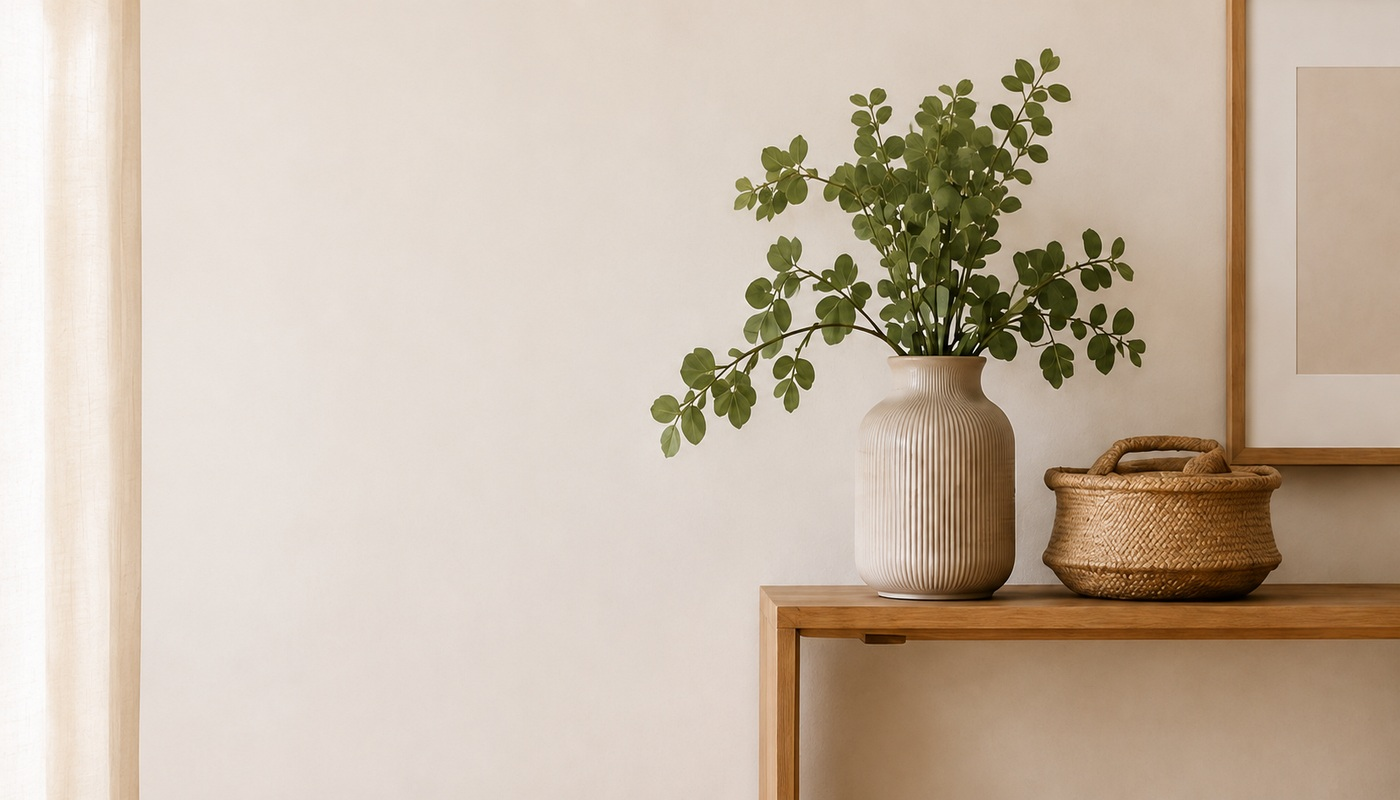
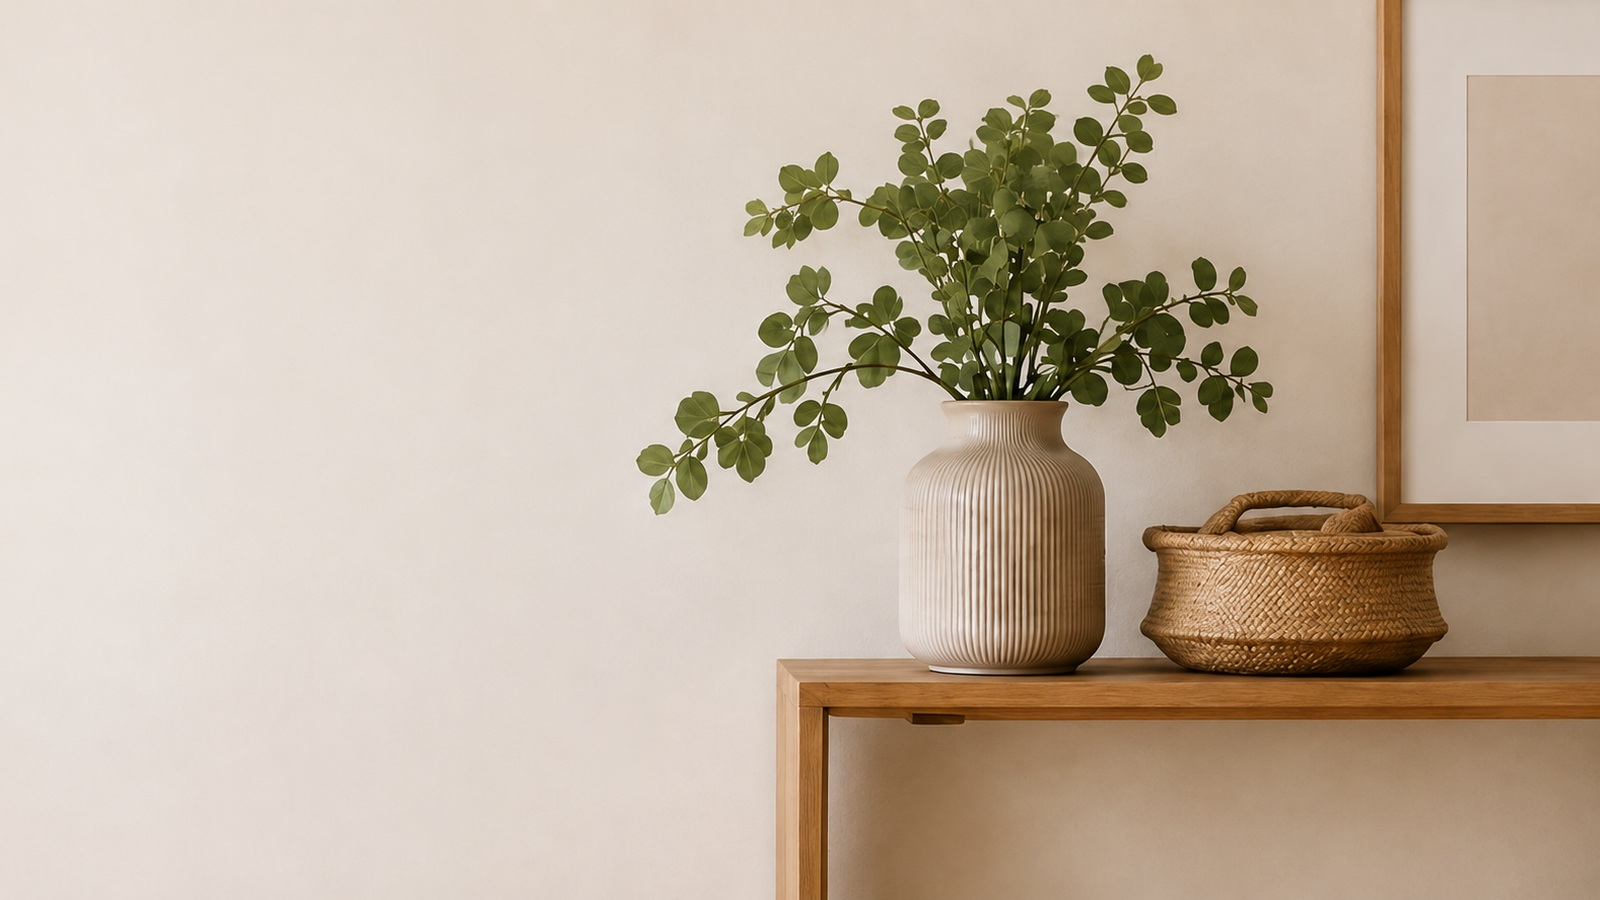
Make reset cards interactive and refine responsive hero

Changed region(s): [[0.3993, 0.0, 0.9521, 1.0], [0.0, 0.0, 0.1229, 1.0]]

diff --git a/index.html b/index.html
@@ -78,21 +78,21 @@
     </div>
 
     <div class="reset-level-grid">
-      <article class="reset-level-card reveal">
+      <a class="reset-level-card reveal reset-choice-link" href="#request" data-reset-choice="Quick Reset">
         <div class="reset-level-icon">◷</div>
         <div>
           <span>Quick Reset</span>
           <p>For smaller spaces or jobs that need a focused tidy, declutter or organisation session.</p>
         </div>
-      </article>
+      </a>
 
-      <article class="reset-level-card reveal">
+      <a class="reset-level-card reveal reset-choice-link" href="#request" data-reset-choice="Full Reset">
         <div class="reset-level-icon">⌂</div>
         <div>
           <span>Full Reset</span>
           <p>For larger spaces or projects that need more time, sorting and a complete organisational reset.</p>
         </div>
-      </article>
+      </a>
     </div>
   </section>
 

diff --git a/script.js b/script.js
@@ -13,6 +13,17 @@ document.querySelectorAll('.site-nav a').forEach(link => {
   });
 });
 
+document.querySelectorAll('.reset-choice-link').forEach(link => {
+  link.addEventListener('click', () => {
+    const choice = link.dataset.resetChoice;
+    const resetSelect = document.querySelector('select[name="reset_level"]');
+
+    if (resetSelect && choice) {
+      resetSelect.value = choice;
+    }
+  });
+});
+
 const observer = new IntersectionObserver(entries => {
   entries.forEach(entry => {
     if (entry.isIntersecting) {

diff --git a/styles.css b/styles.css
@@ -376,3 +376,18 @@ h1,h2,h3,p{margin-top:0}
       url("hero-mobile.jpg") center center / cover no-repeat !important;
   }
 }
+
+
+/* Quick / Full Reset cards are clickable */
+.reset-choice-link{
+  color:inherit;
+  cursor:pointer;
+  transition:transform .2s ease, box-shadow .2s ease, background .2s ease;
+}
+
+.reset-choice-link:hover,
+.reset-choice-link:focus-visible{
+  transform:translateY(-3px);
+  box-shadow:var(--shadow);
+  outline:none;
+}
